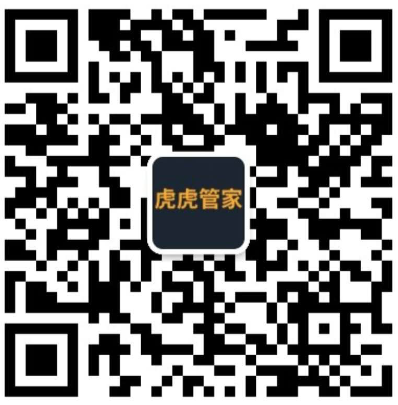
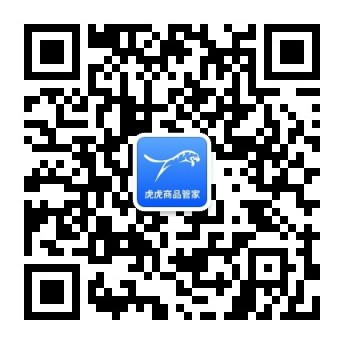
[ADD]:微信公众号，店铺名称，登录框位置修改

diff --git a/src/pages/AppInfo.vue b/src/pages/AppInfo.vue
@@ -2,7 +2,7 @@
     <div>
         <el-tabs type="border-card" v-model="activeName">
           <el-tab-pane label="关于我们" class="my-info" name="company">
-            虎虎抖音小店属于上海虎正奔信息科技有限公司旗下品牌。
+            虎虎抖音搬家助手属于上海虎正奔信息科技有限公司旗下品牌。
             <br/>
             上海虎正奔信息科技有限公司是一家为电商企业提供创新型店铺经营管理工具的互联网公司。致力于帮助企业降低运营成本、提升运营效率、促进交易转化。
             <br/>
@@ -16,7 +16,7 @@
             <br>
             <br>
             <div style="max-width: 70%; float:left; font-size: 14px;">
-              如有问题，可以联系微信客服：<img src="http://qncnd.huhuguanjia.com/qrcode.png" style="max-height: 100px;">
+              如有问题，可以联系微信客服：<img src="@/assets/images/qrcode.png" style="max-height: 100px;">
             </div>
           </el-tab-pane>
         </el-tabs>

diff --git a/src/components/Navbar.vue b/src/components/Navbar.vue
@@ -1,7 +1,7 @@
 <template lang="html">
     <div class="navbar" id="navBar">
         <div class="navbar-content">
-            <div class="nav-title">抖音小店</div>
+            <div class="nav-title">抖音搬家助手</div>
             <div class="nav-right">
               <div v-if="!phone">
                 <el-button size="small" @click="onLogin">登录</el-button>
@@ -90,7 +90,7 @@ export default {
     },
     addToFavorite () {
       let url = 'https://optimize.huhuguanjia.com/'
-      let title = '虎虎抖音小店'
+      let title = '虎虎抖音搬家助手'
       let strShortcut = navigator.userAgent.toLowerCase().indexOf('mac') !== -1 ? 'Command+D' : 'Ctrl+D'
       let ua = navigator.userAgent.toLowerCase()
       if (ua.indexOf('360se') > -1) {

diff --git a/index.html b/index.html
@@ -3,7 +3,7 @@
   <head>
     <meta charset="utf-8">
     <meta name="viewport" content="width=device-width,initial-scale=1.0">
-    <title>虎虎抖音小店 - 抖音商品优化工具</title>
+    <title>虎虎抖音搬家助手 - 抖音商品优化工具</title>
     <meta name="description" content="把淘宝、天猫的商品一键复制到抖音店铺中。支持整店搬家，智能匹配商品属性。免费使用。一键商品搬家、商品复制、商品导入、商品导入。">
     <link rel="shortcut icon" href="static/favicon.ico" type="image/x-icon"/>
     <!-- <link rel="stylesheet" href="https://cdn.bootcss.com/element-ui/2.9.1/theme-chalk/index.css"> -->

diff --git a/src/pages/Register.vue b/src/pages/Register.vue
@@ -3,7 +3,7 @@
     <transition name="form-fade" mode="in-out">
       <section class="form_contianer" v-show="showLogin">
         <div class="manage_tip">
-          <p>抖音小店</p>
+          <p>抖音搬家助手</p>
         </div>
         <el-radio-group v-model="tabPosition" @change="changeTab">
           <el-radio-button label="login">登录</el-radio-button>

diff --git a/src/pages/CustomerService.vue b/src/pages/CustomerService.vue
@@ -1,7 +1,7 @@
 <template lang="html">
     <div>
         <span style="font-size: 22px;"> 请扫描添加客服微信: pddhhgj </span><br>
-        <img src="http://qncnd.huhuguanjia.com/qrcode.png">
+        <img src="@/assets/images/qrcode.png">
     </div>
 </template>
 <script>

diff --git a/src/assets/css/mixin.less b/src/assets/css/mixin.less
@@ -28,8 +28,8 @@
   position: absolute;
   top: 50%;
   left: 50%;
-  margin-top: -@height/2;
-  margin-left: -@width/2;
+  margin-top: -(@height+50)/2;
+  margin-left: -(@width+50)/2;
 }
 
 //定位上下居中

diff --git a/README.md b/README.md
@@ -1,6 +1,6 @@
 # dy_banjia-fe
 
-> 抖音小店前端
+> 抖音搬家助手前端
 
 ## Build Setup
 
